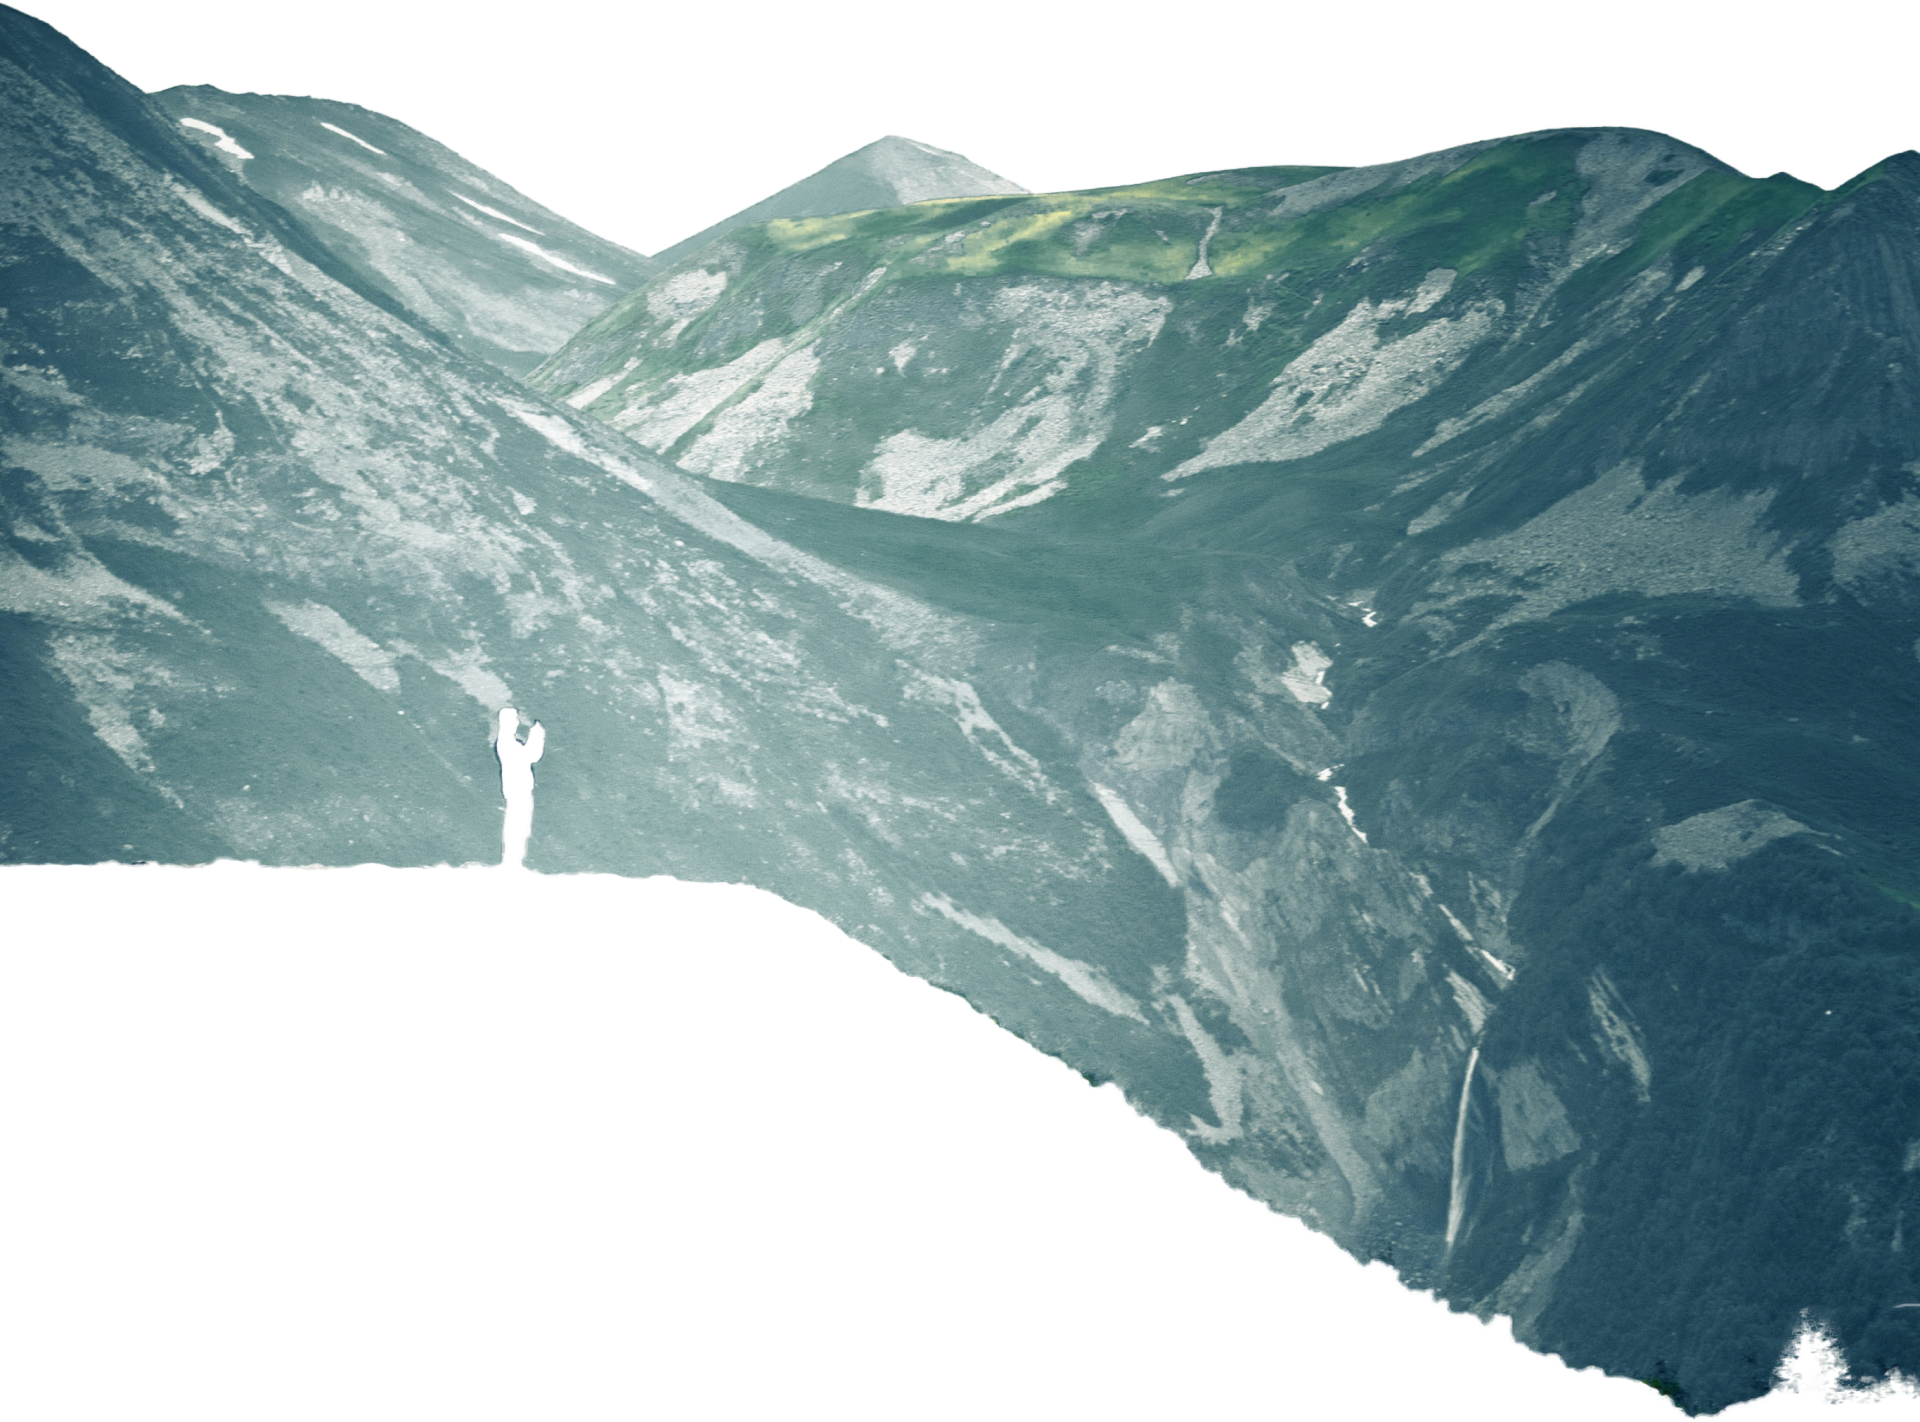
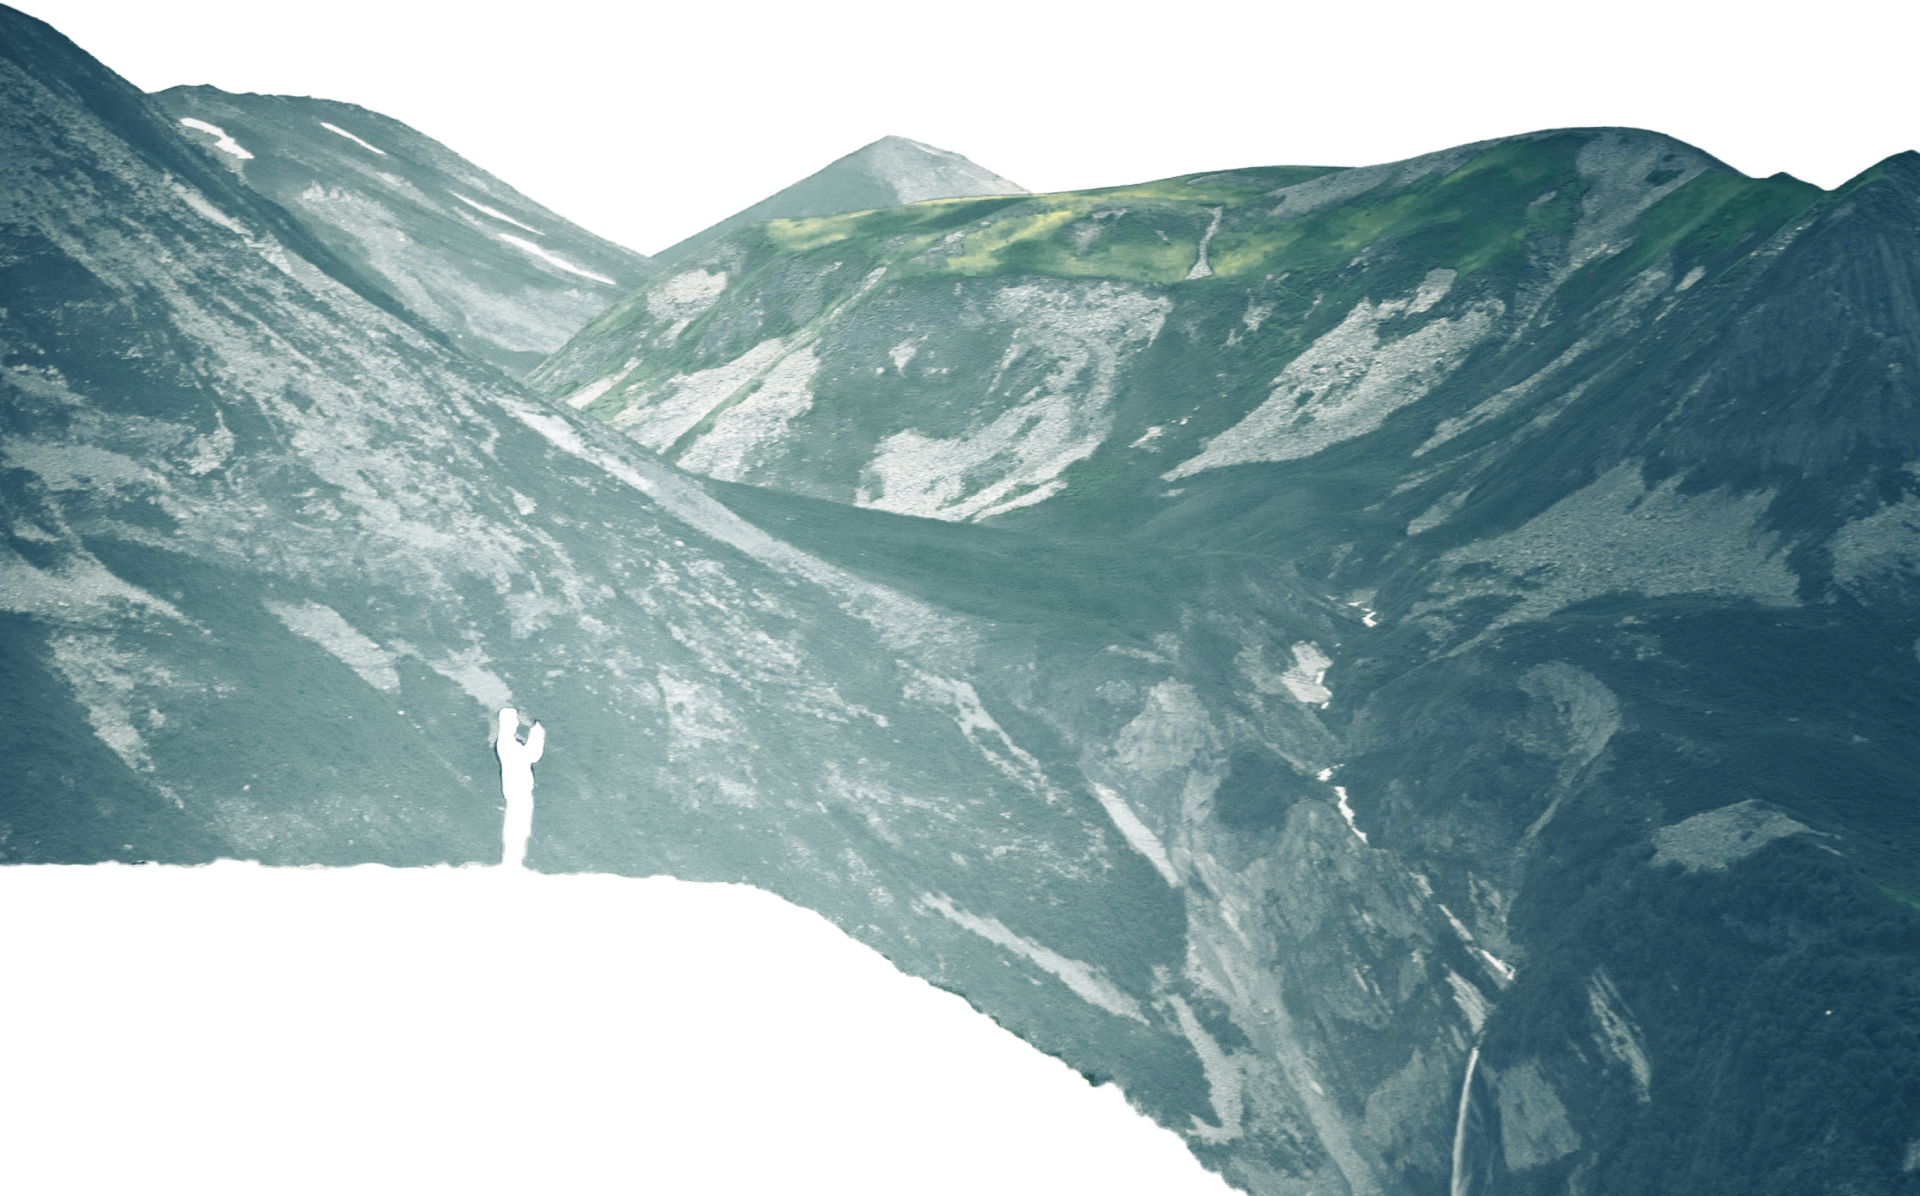
fixing it for smaller devices

diff --git a/styles/styles.css b/styles/styles.css
@@ -109,6 +109,7 @@ nav .account {
   align-items: start;
   position: relative;
   min-height: 90vw;
+  overflow: hidden;
   .bg {
     position: absolute;
     top: 0;
@@ -370,7 +371,7 @@ footer ul {
     font-size: 12px;
   }
   .hero {
-    height: 90vh;
+    height: 70vh;
 
     .wrapper {
       padding-top: 20rem;
@@ -383,7 +384,7 @@ footer ul {
     .contaner {
       max-width: 100svw;
       overflow: hidden;
-      height: 90vh;
+      height: 70vh;
       display: flex;
       flex-direction: column;
       align-items: center;

diff --git a/script/app.js b/script/app.js
@@ -10,13 +10,13 @@ const paralax = (e) => {
   let value2 = window.scrollY - 210;
   console.log(value);
   if (value >= 442) {
-    img_3.style.marginBottom = 212 * 0.1 + "vw";
+    img_3.style.marginBottom = 215 * 0.1 + "vw";
   } else {
     img_3.style.marginBottom = value2 * 0.1 + "vw";
   }
   content.marginTop = value2 * 1 + "vw";
 
-  img_2.style.marginBottom = value2 * 0.02 + "vw";
+  img_2.style.marginBottom = (value2 + 220) * 0.03 + "vw";
 
   if (value <= 196) {
     img_1.style.marginBottom = 33 + value * 0.1 + "vw";
